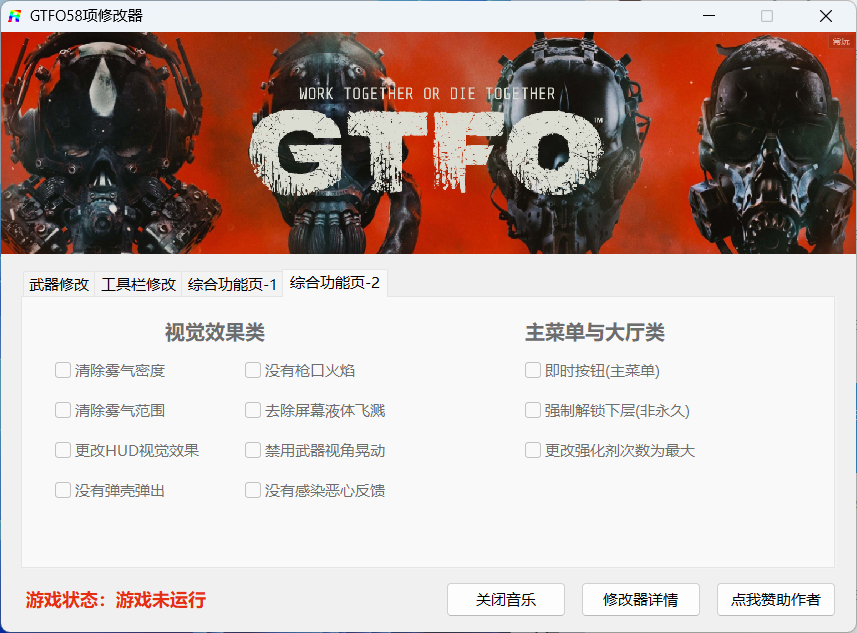
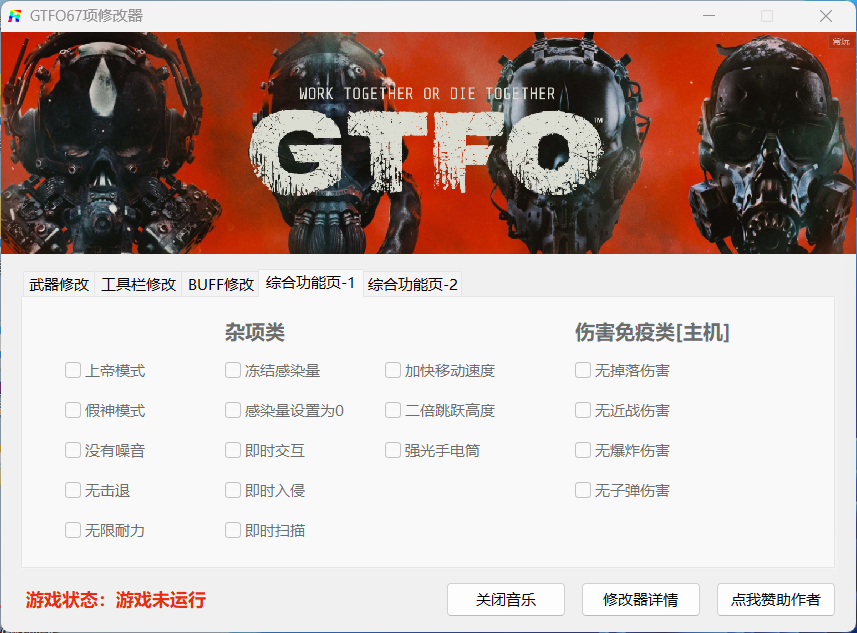
up

diff --git a/docs/GameTrainer/Trainer/GTFO.md b/docs/GameTrainer/Trainer/GTFO.md
@@ -8,9 +8,11 @@
 
 ![](/images/GTFO4.png)
 
+![](/images/GTFO5.png)
+
 **修改器简介：**
 
-本修改器由文仔大大制作，共58项功能，游戏启动即可使用。
+本修改器由文仔大大制作，共67项功能，游戏启动即可使用。
 
 **注意事项：**
 
